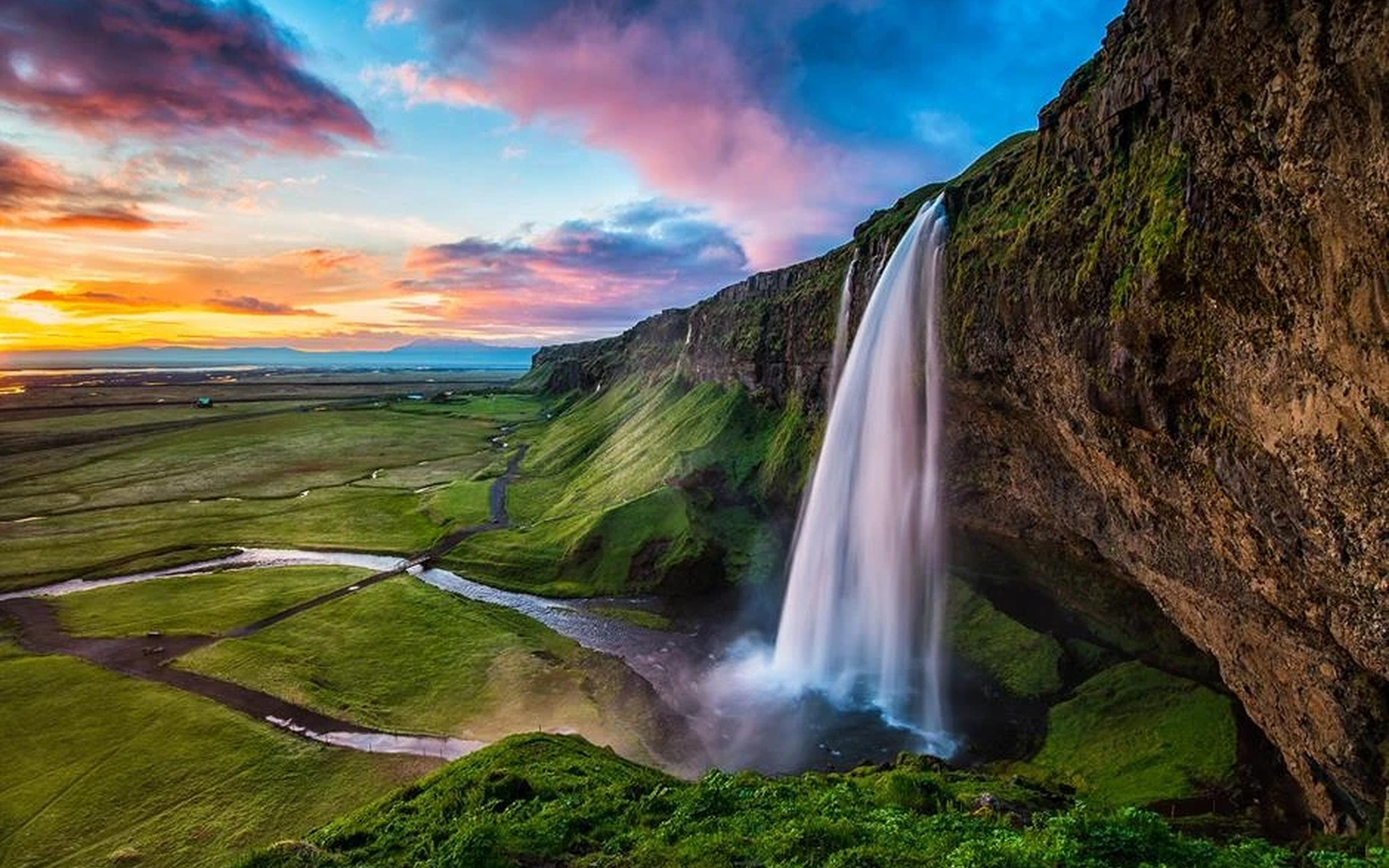
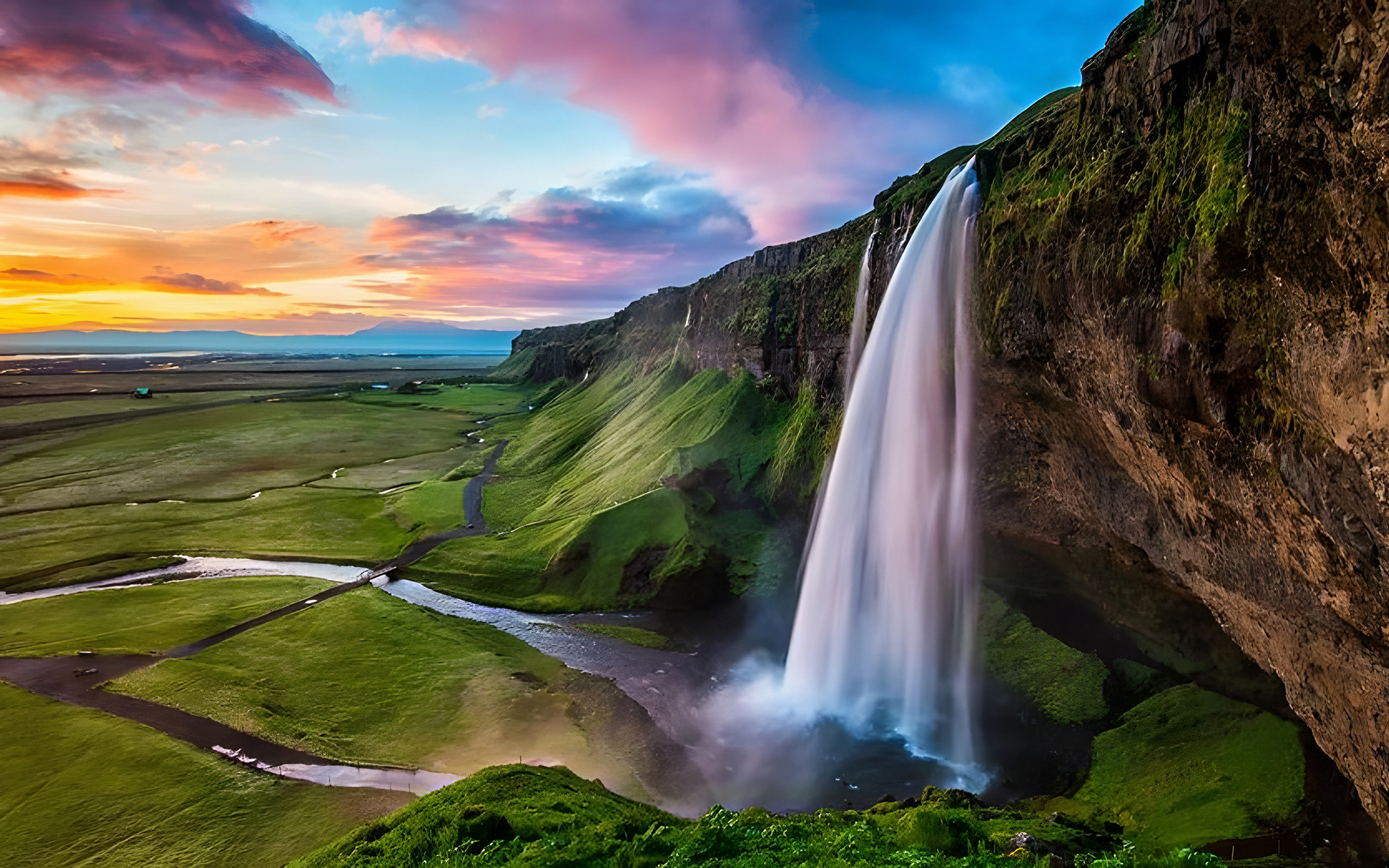
Fondos de mayor calidad (ampliador por IA) y 5 fondos nuevos con catálogo
- branding/make_fondos.py: regenera 7 fondos desde branding/fotos (Real-ESRGAN
  en CPU + mezcla clásica, grano fino, JPEG 4:4:4); catálogo en branding/fondos.
- make_assets.py ya no genera fondos.
- Licencias: ver branding/fondos/LEEME.md (el abstracto es de una web comercial).

Claude-Session: https://claude.ai/code/session_01R9AqWX8ouQAWjBfpCR7LgB

diff --git a/branding/make_fondos.py b/branding/make_fondos.py
@@ -18,21 +18,30 @@ Funciona desde cualquier directorio. Dependencias:
         /tmp/venv-ia/bin/python -I branding/make_fondos.py
 
     Hay ruedas para CPython 3.8-3.12 (no 3.13). Si el modulo no se puede importar, el script AVISA y usa el
-    metodo clasico para esa imagen; el "metodo" de cada fondo queda escrito en fondos/fondos.json y fondos/LEEME.md.
+    metodo clasico para esa imagen; el "metodo" de cada fondo queda escrito en fondos/fondos.json.
+    Coste: la red usa un solo hilo y ~3 GB de RAM; todo el catalogo tarda ~45 minutos de CPU (el abstracto,
+    ~15). Para repartirlo, se lanzan varios procesos con ids distintos y la misma --cache, y al final uno
+    solo sin ids (que ya encuentra el resultado de la IA en la cache y tarda ~1 minuto).
     Los JPEG finales son lo que se commitea: no hace falta repetir la generacion para compilar la ISO.
 
 Que hace con cada fondo (todo en sRGB de 8 bits):
-  1. Recorta de la fuente la ventana 16:9 con mejor composicion (VENTANA, elegida a mano mirando cada imagen).
-     Si la fuente trae un perfil ICC que no es sRGB se convierte; se descartan los bordes de lienzo y las marcas.
+  1. Recorta de la fuente la ventana 16:9 con mejor composicion (clave "ventana" de FONDOS, elegida a mano
+     mirando cada imagen). Si la fuente trae un perfil ICC que no es sRGB se convierte. En el recorte quedan
+     fuera los bordes del lienzo (noche estrellada) y la marca de agua (abstracto: la ventana acaba en y=974
+     y la marca empieza en y=1248; "y_max" lo comprueba).
   2. Amplia a un "maestro" de 2880x1620 (suficiente para recortar 2560x1600 sin reescalar de mas):
-       - IA:      Real-ESRGAN x4plus sobre la ventana (quita el ruido/bloques de la compresion y reconstruye bordes)
-                  y reduccion LANCZOS al maestro. Se mezcla un poco de la ampliacion clasica (MEZCLA_CLASICA)
-                  para que no quede un aspecto "plastico".
-       - clasico: filtro bilateral suave (quita bloques 8x8 y ruido sin comerse los bordes), ampliacion LANCZOS
+       - IA:      Real-ESRGAN x4plus sobre la ventana (quita el ruido/bloques de la compresion y reconstruye
+                  bordes), reduccion LANCZOS al maestro, correccion del tono global (la red oscurece hasta un
+                  12 %: se devuelve la luz y el color de la foto original, solo en baja frecuencia) y mezcla
+                  de un pequeno porcentaje de la ampliacion clasica ("mezcla" de cada fondo, 10-35 %) para que
+                  no quede un aspecto "plastico" ni se vean texturas inventadas de mas.
+       - clasico: filtro bilateral suave (quita ruido y bloques sin comerse los bordes), ampliacion LANCZOS
                   en pasos de x2 como maximo y mascara de desenfoque (unsharp) con umbral.
   3. Escritorio: maestro -> 2560x1440, OSCURECIMIENTO ADAPTATIVO y grano. Bloqueo: recorte "cubrir" del maestro
-     a cada resolucion de RESOLUCIONES_BLOQUEO (sin oscurecer, sin deformar) y grano. Miniatura 320x180.
-  4. JPEG calidad >= 92, submuestreo 4:4:4, optimizado (progresivo en los de escritorio).
+     a cada resolucion de RESOLUCIONES_BLOQUEO (sin oscurecer, sin deformar; las resoluciones 16:10 recortan
+     un poco los lados de la misma ventana) y grano. Miniatura 320x180 del maestro sin oscurecer.
+  4. JPEG 4:4:4 optimizado y progresivo, calidad 92 (miniaturas 88, no progresivas).
+     Pesa mucho (unos 55 MB el catalogo) porque 4:4:4 a calidad 92 conserva el detalle fino.
 
 Oscurecimiento adaptativo del escritorio. Antes era un 0,70x fijo: bien para la cascada (clara y saturada) pero
 una foto ya oscura, como La noche estrellada o un atardecer, quedaba hundida. Ahora el objetivo es la
@@ -48,7 +57,6 @@ import argparse
 import hashlib
 import io
 import json
-import shutil
 import sys
 import time
 from pathlib import Path
@@ -67,7 +75,7 @@ BRILLO_ESCRITORIO = 0.70          # suelo del oscurecimiento (el valor fijo de a
 ESCRITORIO = (2560, 1440)
 MAESTRO = (2880, 1620)
 MINIATURA = (320, 180)
-CALIDAD = 93                      # JPEG de escritorio y bloqueo (>= 92)
+CALIDAD = 92                      # JPEG de escritorio y bloqueo (>= 92; 4:4:4)
 CALIDAD_MINIATURA = 88
 TESELA, MARGEN = 96, 12           # teselas de la IA y margen descartado (px de la fuente)
 GRANO = 1.1                       # sigma del grano, en niveles de 8 bits
@@ -79,6 +87,7 @@ LUMA_OBJETIVO = 71.6
 # ---------------------------------------------------------------------------------------------------------
 # Catalogo. El orden es el del selector de Ajustes.
 #   ventana: (x0, y0, ancho, alto) en pixeles de la fuente; ~16:9. Elegida a mano mirando cada imagen.
+#   y_max:   (opcional) la ventana no puede pasar de esta fila de la fuente (marca de agua desde y=1248).
 #   ia:      True si con este fondo la IA sale mejor que el clasico (decidido mirando recortes al 100 %).
 #   mezcla:  parte de la ampliacion clasica que se mezcla con la de la IA (0 = IA pura).
 #   nota:    origen / licencia, tal cual en fondos.json.
@@ -100,7 +109,7 @@ FONDOS = [
          ventana=(4, 745, 1264, 711), ia=True, mezcla=0.35,
          nota="Aportada por el usuario (foto vertical recortada a 16:9). Licencia sin verificar."),
     dict(id="abstracto-colores", nombre="Abstracto de colores", fuente="fotos/fondo-abstracto-colores.webp",
-         ventana=(0, 130, 1500, 844), ia=True, mezcla=0.30,
+         ventana=(0, 130, 1500, 844), y_max=1240, ia=True, mezcla=0.30,
          nota="Aportada por el usuario. La fuente lleva una marca de agua comercial (todo cuadros / tutti Quadri "
               "/ artwork vault / tudo Quadros) en la franja inferior derecha, que queda FUERA del recorte. "
               "Procede de una web de venta de cuadros: licencia dudosa."),
@@ -214,6 +223,18 @@ def clasico_maestro(ventana_img):
     return grande.filter(ImageFilter.UnsharpMask(radius=2.0, percent=55, threshold=3))
 
 
+def igualar_tono(ia, ref, lado=48):
+    """La red de IA oscurece y desplaza un poco el color (hasta un 12 % de brillo medio en el salto de agua).
+    Se corrige solo la componente de baja frecuencia: se multiplica `ia` por el cociente (borroso) entre la
+    ampliacion clasica `ref` y la propia `ia`, limitado a 0,7..1,4, de modo que el detalle es el de la IA
+    pero la luz y el color global son los de la foto original."""
+    a = np.asarray(ia, dtype=np.float32)
+    pequena = lambda im: np.asarray(im.resize((ia.width // lado, ia.height // lado), Image.BOX), dtype=np.float32)
+    ratio = (pequena(ref) + 1.0) / (pequena(ia) + 1.0)
+    ratio = np.stack([np.asarray(Image.fromarray(ratio[..., c]).resize(ia.size, Image.BICUBIC)) for c in range(3)], -1)
+    return Image.fromarray(np.clip(a * np.clip(ratio, 0.7, 1.4) + 0.5, 0, 255).astype(np.uint8))
+
+
 def maestro(fondo, Realesrgan, cache=None, forzar_clasico=False):
     """Devuelve (imagen RGB 2880x1620, texto del metodo)."""
     x0, y0, w, h = fondo["ventana"]
@@ -221,15 +242,16 @@ def maestro(fondo, Realesrgan, cache=None, forzar_clasico=False):
     assert abs(asp - 1) < 0.005, f"{fondo['id']}: la ventana no es 16:9 ({w}x{h})"
     fuente = abrir_srgb(AQUI / fondo["fuente"])
     assert x0 >= 0 and y0 >= 0 and x0 + w <= fuente.width and y0 + h <= fuente.height, fondo["id"]
+    assert y0 + h <= fondo.get("y_max", fuente.height), f"{fondo['id']}: la ventana invade la zona con marca de agua"
     ventana = fuente.crop((x0, y0, x0 + w, y0 + h))
     clasico = clasico_maestro(ventana)
     desc_ventana = f"ventana 16:9 {w}x{h} de {fuente.width}x{fuente.height}"
     if fondo["ia"] and Realesrgan and not forzar_clasico:
         x4 = ia_x4(ventana, Realesrgan, cache, fondo["id"])
-        ia = x4.resize(MAESTRO, Image.LANCZOS)
+        ia = igualar_tono(x4.resize(MAESTRO, Image.LANCZOS), ampliar_pasos(ventana, MAESTRO[0]).resize(MAESTRO, Image.LANCZOS))
         m = fondo["mezcla"]
         res = Image.blend(ia, clasico, m) if m else ia
-        texto = (f"{desc_ventana}; Real-ESRGAN x4plus (IA, CPU) y reducción LANCZOS a {MAESTRO[0]}x{MAESTRO[1]}"
+        texto = (f"{desc_ventana}; Real-ESRGAN x4plus (IA, CPU) y reducción LANCZOS a {MAESTRO[0]}x{MAESTRO[1]}, tono global igualado al original"
                  + (f", mezclado un {round(m * 100)} % con la ampliación clásica" if m else ""))
         return res, texto
     texto = (f"{desc_ventana}; clásico: filtro bilateral, ampliación LANCZOS por pasos de x2 y unsharp con umbral"
@@ -253,10 +275,6 @@ def con_grano(arr, semilla):
     return Image.fromarray(np.clip(arr + lum + col + 0.5, 0, 255).astype(np.uint8))
 
 
-def afilar(img, radio=0.9, porcentaje=35):
-    return img.filter(ImageFilter.UnsharpMask(radius=radio, percent=porcentaje, threshold=2))
-
-
 def guardar_jpeg(img, ruta, calidad, progresivo):
     ruta.parent.mkdir(parents=True, exist_ok=True)
     img.save(ruta, "JPEG", quality=calidad, subsampling=0, optimize=True, progressive=progresivo)
@@ -267,7 +285,7 @@ def generar_fondo(fondo, Realesrgan, cache=None, forzar_clasico=False, salida=SA
     m, metodo = maestro(fondo, Realesrgan, cache, forzar_clasico)
     carpeta = salida / fondo["id"]
     # Escritorio
-    base = afilar(m.resize(ESCRITORIO, Image.LANCZOS), 1.0, 30)
+    base = m.resize(ESCRITORIO, Image.LANCZOS)
     arr = np.asarray(base, dtype=np.float32)
     f = factor_escritorio(arr)
     esc = con_grano(arr * f, fondo["id"] + "/escritorio")
@@ -277,10 +295,10 @@ def generar_fondo(fondo, Realesrgan, cache=None, forzar_clasico=False, salida=SA
     # Bloqueo
     bloqueo = {}
     for ancho, alto in RESOLUCIONES_BLOQUEO:
-        img = afilar(cubrir(m, ancho, alto))
+        img = cubrir(m, ancho, alto)
         img = con_grano(np.asarray(img, dtype=np.float32), f"{fondo['id']}/bloqueo{ancho}x{alto}")
         nombre = f"bloqueo-{ancho}x{alto}.jpg"
-        guardar_jpeg(img, carpeta / nombre, CALIDAD, False)
+        guardar_jpeg(img, carpeta / nombre, CALIDAD, True)
         bloqueo[f"{ancho}x{alto}"] = f"{fondo['id']}/{nombre}"
     print(f"  {fondo['id']}: brillo escritorio x{f:.3f}  ({time.time() - t0:.0f} s)  {metodo}")
     return dict(id=fondo["id"], nombre=fondo["nombre"], escritorio=f"{fondo['id']}/escritorio.jpg",
@@ -291,14 +309,14 @@ def generar_fondo(fondo, Realesrgan, cache=None, forzar_clasico=False, salida=SA
 def compatibilidad(m_cascada, m_islandia, f_cascada, salida=AQUI):
     """branding/wallpaper.jpg (1920x1080, la cascada oscurecida) y branding/fondos-bloqueo/wallpaper-lock-*.jpg
     (la foto de Islandia): los nombres de siempre, que usan build.sh y las pruebas."""
-    base = afilar(m_cascada.resize((1920, 1080), Image.LANCZOS), 1.0, 30)
+    base = m_cascada.resize((1920, 1080), Image.LANCZOS)
     arr = np.asarray(base, dtype=np.float32)
     guardar_jpeg(con_grano(arr * f_cascada, "wallpaper.jpg"), salida / "wallpaper.jpg", CALIDAD, True)
     carpeta = salida / "fondos-bloqueo"
     for ancho, alto in RESOLUCIONES_BLOQUEO:
-        img = afilar(cubrir(m_islandia, ancho, alto))
+        img = cubrir(m_islandia, ancho, alto)
         img = con_grano(np.asarray(img, dtype=np.float32), f"islandia/bloqueo{ancho}x{alto}")
-        guardar_jpeg(img, carpeta / f"wallpaper-lock-{ancho}x{alto}.jpg", CALIDAD, False)
+        guardar_jpeg(img, carpeta / f"wallpaper-lock-{ancho}x{alto}.jpg", CALIDAD, True)
 
 
 def main(argv=None):

diff --git a/branding/fondos/LEEME.md b/branding/fondos/LEEME.md
@@ -1,0 +1,80 @@
+# Fondos de pantalla de Infinity OS
+
+Catálogo de fondos (escritorio, pantalla de bloqueo y miniatura) que lee Ajustes. El índice es `fondos.json`
+(`version` 1; rutas relativas a esta carpeta). Todo se genera con `branding/make_fondos.py` a partir de las
+fuentes de `branding/fotos/`; los JPEG de aquí son lo que se commitea y lo que usa la ISO.
+
+Por cada fondo `<id>/`:
+
+| archivo | tamaño | notas |
+|---|---|---|
+| `escritorio.jpg` | 2560x1440 | oscurecido de forma adaptativa (ver abajo) |
+| `bloqueo-ANCHOxALTO.jpg` | las 9 resoluciones de bloqueo | sin oscurecer, recorte «cubrir» sin deformar |
+| `miniatura.jpg` | 320x180 | sin oscurecer |
+
+Además `branding/wallpaper.jpg` (1920x1080, la cascada oscurecida) y `branding/fondos-bloqueo/wallpaper-lock-*.jpg`
+(Islandia) se regeneran con los nombres de siempre: los usan `build/build.sh` y las pruebas.
+
+## Origen y licencia
+
+Todas las fuentes están en `branding/fotos/` tal como llegaron (sin recomprimir).
+
+| id | nombre | fuente | origen / licencia |
+|---|---|---|---|
+| `cascada` | Cascada otoñal | `escritorio-cascada.webp` (740x493) | foto del proyecto; origen y licencia sin verificar |
+| `islandia` | Islandia | `bloqueo-islandia.webp` (940x625) | foto del proyecto; origen y licencia sin verificar |
+| `atardecer-playa` | Atardecer en la playa | `fondo-atardecer-playa.png` (625x350) | aportada por el usuario; parece generada por IA; licencia sin verificar |
+| `lago-montanas` | Lago entre montañas | `fondo-lago-montanas.webp` (673x456) | aportada por el usuario; lámina cromolitográfica antigua, de aspecto de dominio público pero sin verificar |
+| `salto-de-agua` | Salto de agua | `fondo-salto-de-agua.webp` (1275x1542, vertical) | aportada por el usuario; licencia sin verificar |
+| `abstracto-colores` | Abstracto de colores | `fondo-abstracto-colores.webp` (1500x1500) | aportada por el usuario. **Lleva una marca de agua comercial** («todo cuadros / tutti Quadri / artwork vault / tudo Quadros») de una web de venta de cuadros: **licencia dudosa**, conviene sustituirla por una imagen con licencia clara |
+| `noche-estrellada` | La noche estrellada | `fondo-noche-estrellada.webp` (1280x720) | la obra (Van Gogh, 1889) es de dominio público; la reproducción es la aportada por el usuario y la licencia de esa fotografía no está verificada |
+
+La marca de agua del abstracto **no se retoca**: el fondo es una ventana 16:9 de la fuente (filas 130 a 974 de 1500)
+que deja fuera la franja donde está (empieza en la fila 1248); `make_fondos.py` comprueba que no la invade
+(`y_max`). La fuente completa, con marca, sigue en `branding/fotos/`.
+
+## Cómo se generó cada uno
+
+Todas las imágenes pasaron por el mismo proceso (detalle en la cabecera de `make_fondos.py`):
+
+1. Recorte a mano de la ventana 16:9 con mejor composición (el mismo para escritorio y bloqueo; las resoluciones
+   16:10 recortan algo más los lados). En el salto de agua se prioriza la caída de agua con algo de bosque; el
+   cielo no cabe en 16:9 sin perder el salto. En La noche estrellada se descartan los bordes del lienzo.
+2. Ampliación a un maestro de 2880x1620 con **Real-ESRGAN x4plus** (modelo de IA, versión NCNN en CPU) sobre la
+   ventana y reducción LANCZOS; se corrige el tono global (la red oscurece hasta un 12 %) y se mezcla un
+   porcentaje de la ampliación clásica (filtro bilateral + LANCZOS por pasos + unsharp con umbral) para que no
+   quede «plástico»:
+
+   | id | ventana de la fuente | mezcla clásica | brillo del escritorio |
+   |---|---|---|---|
+   | cascada | 736x414 | 25 % | x0,703 |
+   | islandia | 928x522 | 20 % | x0,772 |
+   | atardecer-playa | 622x350 | 10 % | x0,823 |
+   | lago-montanas | 672x378 | 10 % | x0,700 |
+   | salto-de-agua | 1264x711 | 35 % | x0,742 |
+   | abstracto-colores | 1500x844 | 30 % | x0,700 |
+   | noche-estrellada | 1228x691 | 20 % | x0,713 |
+
+   En las fuentes pequeñas (625-940 px de ancho) la IA quita los bloques y el ruido de la compresión y rehace los
+   bordes, pero **no recupera detalle que no existe**: lo que se ve en texturas finas (follaje, espuma, pinceladas)
+   es una reconstrucción plausible, no la realidad de la foto. En las grandes (salto de agua, abstracto, noche
+   estrellada) la mejora es menor y la mezcla clásica es mayor para no inventar demasiado.
+3. Escritorio: 2560x1440 con **oscurecimiento adaptativo**: el factor es `luminancia objetivo / luminancia del fondo`,
+   entre 0,70 y 1,0, donde la luminancia objetivo es la que tenía el `wallpaper.jpg` de la cascada (71,6 sobre 255).
+   Las fotos claras quedan a 0,70 como antes; las oscuras (atardecer, noche) se oscurecen menos para no hundirse.
+4. Grano gaussiano fino (σ≈1,1 niveles de 8 bits, semilla fija) para ocultar bandas en degradados.
+5. JPEG calidad 92, submuestreo 4:4:4, optimizado y progresivo (miniaturas calidad 88).
+
+Peso total de `fondos/`: 55,7 MiB (4:4:4 a calidad 92 es caro: los bloqueos a 2560 pesan 1,5-2 MB cada uno).
+
+## Regenerar
+
+```sh
+python3 -I branding/make_fondos.py             # todos (o: ... cascada lago-montanas)
+python3 -I branding/make_fondos.py --clasico   # sin IA
+```
+
+Sin el paquete `realesrgan-ncnn-py` el script avisa y usa el método clásico (sin IA el resultado es más blando; el
+campo `metodo` de `fondos.json` lo refleja). Para la IA: Python 3.8-3.12, `pip install pillow numpy realesrgan-ncnn-py`
+(los pesos vienen en la rueda; sin GPU ni red) y `libomp5` instalado; tarda unos 45 minutos de CPU y ~3 GB de RAM
+por proceso (se puede repartir por ids con `--cache`). `branding/make_assets.py` ya no toca estos archivos.
